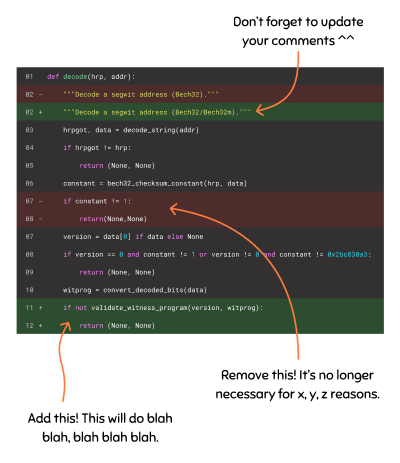
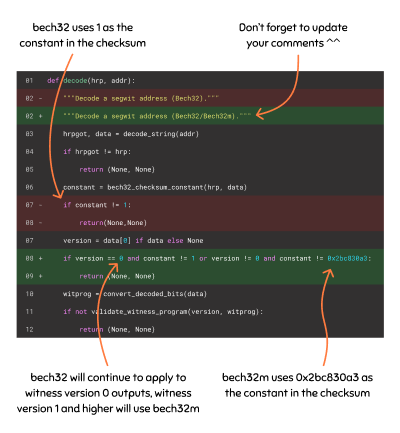
Content updates

diff --git a/pages/index.js b/pages/index.js
@@ -53,7 +53,7 @@ export default function Home() {
               aren’t yet experiencing the benefits. What gives? Bunny is sad. <strong>When&nbsp;taproot?</strong>
             </p>
             <p className="text-xl xl:text-2xl">
-              The next step is for exchanges and wallets to support <strong>sending to bech32m addresses.</strong>
+              The next step is for wallets and services to support <strong>sending to bech32m addresses.</strong>
             </p>
           </div>
         </div>
@@ -88,7 +88,7 @@ export default function Home() {
               <div className="w-32 h-32 bg-slate-400 rounded-full mx-auto mb-4"></div>
               <h3 className="mb-4 text-center">Improved privacy on Lightning</h3>
               <p>
-                Collaborative lightning channel  closes will be indistinguishable single-sig outputs
+                Collaborative lightning channel  closes will be indistinguishable from single-sig outputs
               </p>
             </div>
           </div>
@@ -102,9 +102,11 @@ export default function Home() {
         <div className="container mx-auto px-8 py-8">
           <div className="container mx-auto p-8 max-w-2xl">
             <h2>How to add bech32m send support</h2>
-
+            
             <p>
-              Implementing support for bech32m in your app should be simple. With a <a href="https://github.com/jesseposner/bech32/commit/d8a50fac83c20691833781a660bb4fbb513c3850">small refactor</a>  to the Python reference implementation of bech32, the change for sending to bech32m can be described with <a href="https://github.com/jesseposner/bech32/commit/cc1cc2cc501f7da51305cbf43eef3f6258892cdb#diff-f226c2590ba87b0b57a874d7eecacac232f0d39a7896c08cf6167c258b0b31a1L132-L143">just a few lines of code:</a>
+              Unpacking <code>bech32m</code> addresses is straightforward. <code>Bech32m</code> addresses differ from <code>bech32</code> addresses only in the
+              checksum. <a href="https://github.com/jesseposner/bech32/commit/cc1cc2cc501f7da51305cbf43eef3f6258892cdb#diff-f226c2590ba87b0b57a874d7eecacac232f0d39a7896c08cf6167c258b0b31a1L132-L143">This two-line code change</a> adds support for decoding <code>bech32m</code> addresses to the <a href="https://github.com/sipa/bech32/">Python reference
+              implementation of <code>bech32</code></a>.
             </p>
           </div>
           
@@ -118,8 +120,13 @@ export default function Home() {
               <img src="bech32m-code-diff-mobile.png" alt="Graphic showing the code changes for adding bech32m support" className="mx-auto block" />
             </picture>
           </div>
-          
 
+          <div className="container mx-auto p-8 max-w-2xl">
+            <p>
+              Of course, then you'll also need to make sure your frontend interface accepts the new address type and that
+              your transaction building creates outputs with witness version 1. Comprehensive test vectors can be found in <a href="https://github.com/bitcoin/bips/blob/master/bip-0350.mediawiki">BIP350</a>.
+            </p>
+          </div>
         </div>
 
         {/* Support table */}
